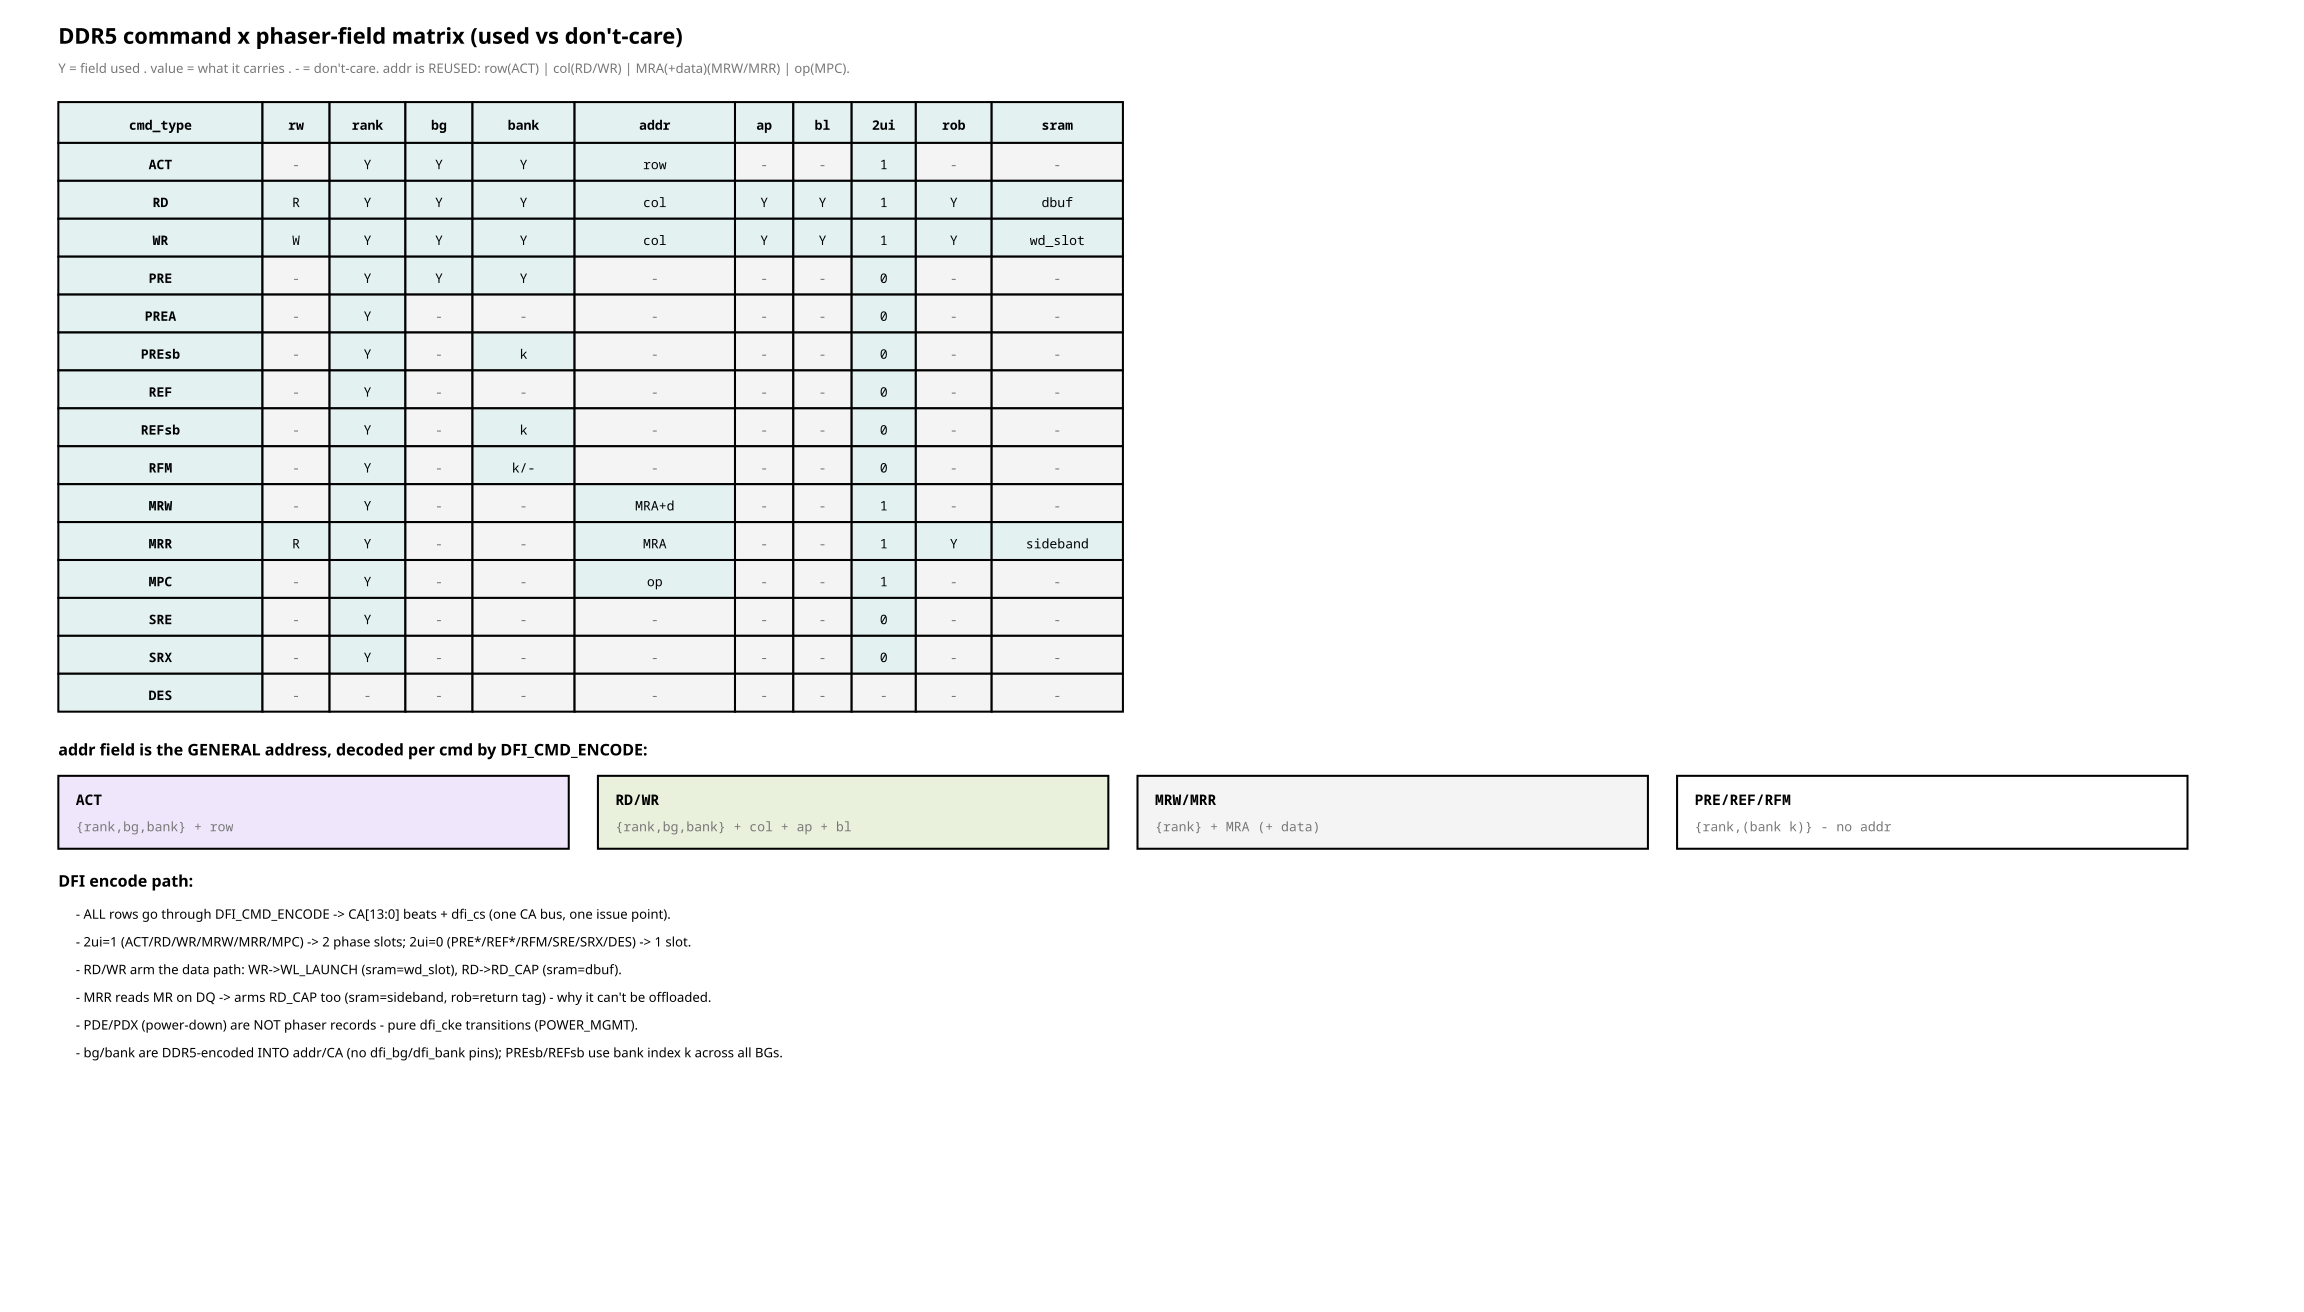
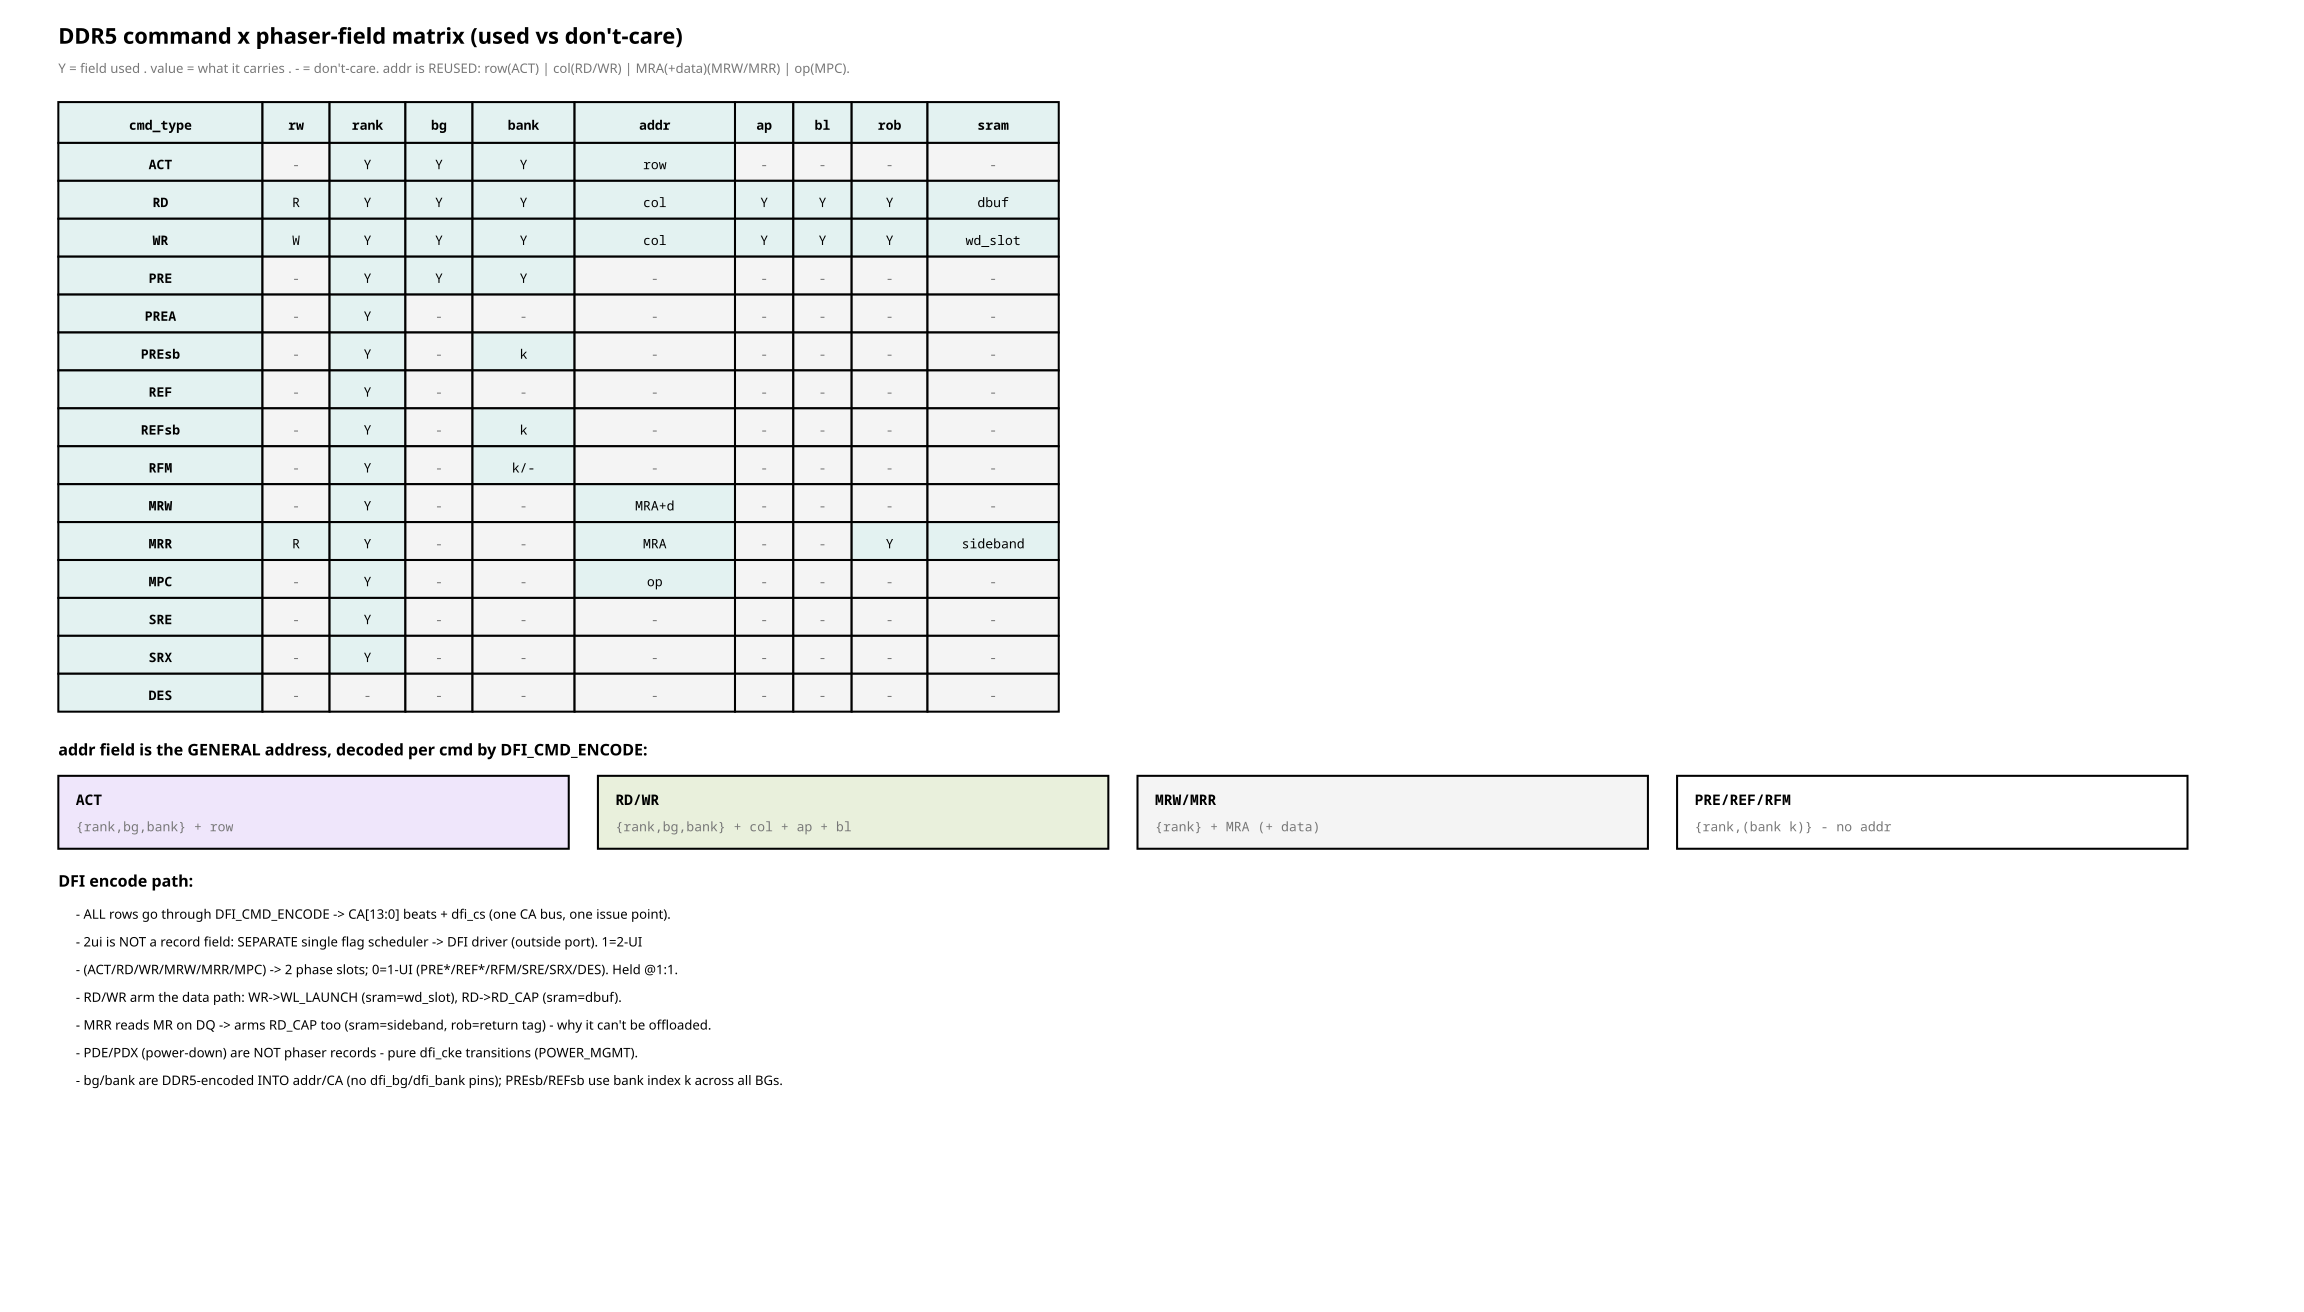
docs(dfi): 2ui out of phaser record matrix -> separate sched->DFI flag (fig_74)
2ui is not a record field; it's a single flag scheduler -> DFI driver (outside
port), derived from cmd_type, used @1:1 to hold 2 cyc. Matrix now = pure record
fields; 2ui noted in the encode-path section.

Claude-Session: https://claude.ai/code/session_01KeZpnsTmiABbSM1StVyWVX

diff --git a/docs/sched_rebuild/fig/fig_74_cmd_field_matrix.py b/docs/sched_rebuild/fig/fig_74_cmd_field_matrix.py
@@ -7,27 +7,27 @@ from rtlfig import (Fig, MUTED, FILL_NEW, FILL_LOGIC, FILL_CELL, FILL_ACTIVE,
 USE = "#e3f2f1"; DC = "#f4f4f4"
 f = Fig(1580, 900)
 
-COLS = ["cmd_type", "rw", "rank", "bg", "bank", "addr", "ap", "bl", "2ui", "rob", "sram"]
-CW = [140, 46, 52, 46, 70, 110, 40, 40, 44, 52, 90]
+COLS = ["cmd_type", "rw", "rank", "bg", "bank", "addr", "ap", "bl", "rob", "sram"]
+CW = [140, 46, 52, 46, 70, 110, 40, 40, 52, 90]
 X0 = 40
 
-# rows: (cmd, [per-col value or '-'])
+# rows: (cmd, [per-col value or '-'])   -- 2ui is NOT a field (separate flag)
 ROWS = [
-    ("ACT",   ["ACT", "-", "Y", "Y", "Y", "row", "-", "-", "1", "-", "-"]),
-    ("RD",    ["RD", "R", "Y", "Y", "Y", "col", "Y", "Y", "1", "Y", "dbuf"]),
-    ("WR",    ["WR", "W", "Y", "Y", "Y", "col", "Y", "Y", "1", "Y", "wd_slot"]),
-    ("PRE",   ["PRE", "-", "Y", "Y", "Y", "-", "-", "-", "0", "-", "-"]),
-    ("PREA",  ["PREA", "-", "Y", "-", "-", "-", "-", "-", "0", "-", "-"]),
-    ("PREsb", ["PREsb", "-", "Y", "-", "k", "-", "-", "-", "0", "-", "-"]),
-    ("REF",   ["REF", "-", "Y", "-", "-", "-", "-", "-", "0", "-", "-"]),
-    ("REFsb", ["REFsb", "-", "Y", "-", "k", "-", "-", "-", "0", "-", "-"]),
-    ("RFM",   ["RFM", "-", "Y", "-", "k/-", "-", "-", "-", "0", "-", "-"]),
-    ("MRW",   ["MRW", "-", "Y", "-", "-", "MRA+d", "-", "-", "1", "-", "-"]),
-    ("MRR",   ["MRR", "R", "Y", "-", "-", "MRA", "-", "-", "1", "Y", "sideband"]),
-    ("ZQ/MPC", ["MPC", "-", "Y", "-", "-", "op", "-", "-", "1", "-", "-"]),
-    ("SRE",   ["SRE", "-", "Y", "-", "-", "-", "-", "-", "0", "-", "-"]),
-    ("SRX",   ["SRX", "-", "Y", "-", "-", "-", "-", "-", "0", "-", "-"]),
-    ("DES",   ["DES", "-", "-", "-", "-", "-", "-", "-", "-", "-", "-"]),
+    ("ACT",   ["ACT", "-", "Y", "Y", "Y", "row", "-", "-", "-", "-"]),
+    ("RD",    ["RD", "R", "Y", "Y", "Y", "col", "Y", "Y", "Y", "dbuf"]),
+    ("WR",    ["WR", "W", "Y", "Y", "Y", "col", "Y", "Y", "Y", "wd_slot"]),
+    ("PRE",   ["PRE", "-", "Y", "Y", "Y", "-", "-", "-", "-", "-"]),
+    ("PREA",  ["PREA", "-", "Y", "-", "-", "-", "-", "-", "-", "-"]),
+    ("PREsb", ["PREsb", "-", "Y", "-", "k", "-", "-", "-", "-", "-"]),
+    ("REF",   ["REF", "-", "Y", "-", "-", "-", "-", "-", "-", "-"]),
+    ("REFsb", ["REFsb", "-", "Y", "-", "k", "-", "-", "-", "-", "-"]),
+    ("RFM",   ["RFM", "-", "Y", "-", "k/-", "-", "-", "-", "-", "-"]),
+    ("MRW",   ["MRW", "-", "Y", "-", "-", "MRA+d", "-", "-", "-", "-"]),
+    ("MRR",   ["MRR", "R", "Y", "-", "-", "MRA", "-", "-", "Y", "sideband"]),
+    ("ZQ/MPC", ["MPC", "-", "Y", "-", "-", "op", "-", "-", "-", "-"]),
+    ("SRE",   ["SRE", "-", "Y", "-", "-", "-", "-", "-", "-", "-"]),
+    ("SRX",   ["SRX", "-", "Y", "-", "-", "-", "-", "-", "-", "-"]),
+    ("DES",   ["DES", "-", "-", "-", "-", "-", "-", "-", "-", "-"]),
 ]
 
 f.text(40, 30, "DDR5 command x phaser-field matrix  (used vs don't-care)", size=15,
@@ -75,7 +75,8 @@ ny = ay + 90
 f.text(40, ny, "DFI encode path:", size=11, mono=False, bold=True)
 notes = [
     "ALL rows go through DFI_CMD_ENCODE -> CA[13:0] beats + dfi_cs  (one CA bus, one issue point).",
-    "2ui=1 (ACT/RD/WR/MRW/MRR/MPC) -> 2 phase slots; 2ui=0 (PRE*/REF*/RFM/SRE/SRX/DES) -> 1 slot.",
+    "2ui is NOT a record field: SEPARATE single flag scheduler -> DFI driver (outside port). 1=2-UI",
+    "  (ACT/RD/WR/MRW/MRR/MPC) -> 2 phase slots; 0=1-UI (PRE*/REF*/RFM/SRE/SRX/DES). Held @1:1.",
     "RD/WR arm the data path: WR->WL_LAUNCH (sram=wd_slot), RD->RD_CAP (sram=dbuf).",
     "MRR reads MR on DQ -> arms RD_CAP too (sram=sideband, rob=return tag) - why it can't be offloaded.",
     "PDE/PDX (power-down) are NOT phaser records - pure dfi_cke transitions (POWER_MGMT).",
